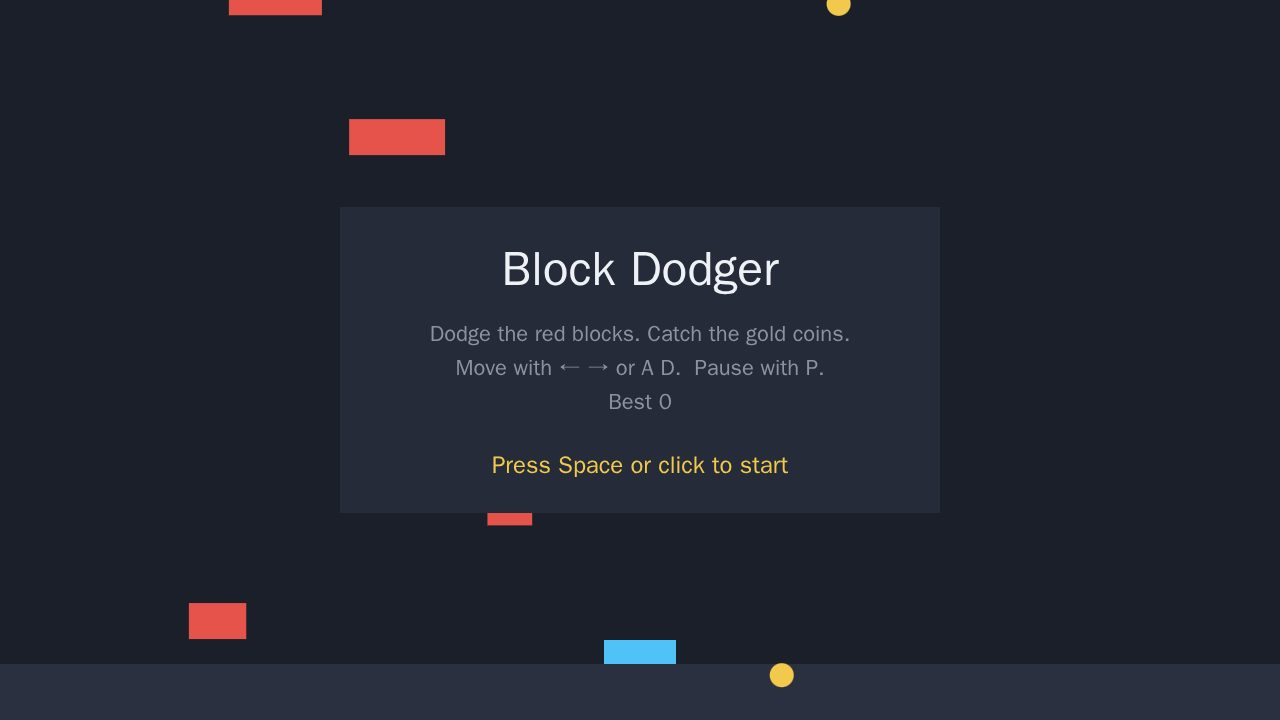
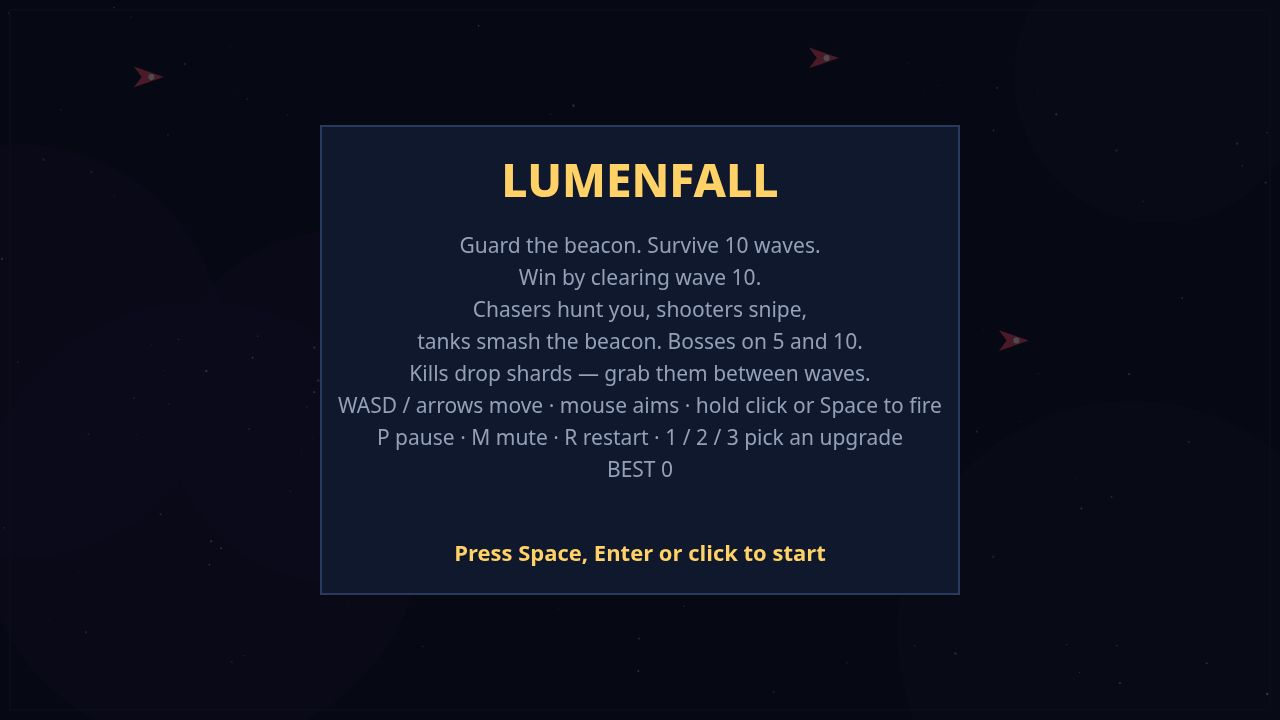
LUMENFALL: final screenshots (start/play/upgrade/end), fixed title overflow + end staging

diff --git a/game/src/render.js b/game/src/render.js
@@ -372,9 +372,11 @@ export function createRenderer(canvas) {
   }
 
   const TITLE_LINES = [
-    'Guard the beacon. Survive 10 waves. Win by clearing wave 10.',
-    'Chasers hunt you, shooters snipe, tanks smash the beacon.',
-    'Bosses on waves 5 and 10. Kills drop shards — spend waves well.',
+    'Guard the beacon. Survive 10 waves.',
+    'Win by clearing wave 10.',
+    'Chasers hunt you, shooters snipe,',
+    'tanks smash the beacon. Bosses on 5 and 10.',
+    'Kills drop shards — grab them between waves.',
     'WASD / arrows move · mouse aims · hold click or Space to fire',
     'P pause · M mute · R restart · 1 / 2 / 3 pick an upgrade',
     '',
@@ -428,7 +430,7 @@ export function createRenderer(canvas) {
     const best = ui.best || 0;
     if (screen === SCREEN_TITLE) {
       drawField(state, false);
-      TITLE_LINES[5] = titleBestLabel(best);
+      TITLE_LINES[7] = titleBestLabel(best);
       drawPanel('LUMENFALL', TITLE_LINES, 'Press Space, Enter or click to start', PALETTE.beacon);
       return;
     }

diff --git a/game/src/shots.js b/game/src/shots.js
@@ -74,7 +74,11 @@ export function stageShot(name, world, random) {
     return { screen: SCREEN_TITLE, best: 0, choices: null };
   }
   if (name === 'end') {
-    runSteps(world, LIMIT_SECONDS, idleInput);
+    // Play well first, then stop fighting: the end screen shows a real run
+    // (score, a cleared wave, kills) instead of a ship that never fired.
+    const fought = runSteps(world, 26, autopilot);
+    if (fought & EVENT_WAVE_CLEAR) world.nextWave();
+    if (world.state.phase === 'fighting') runSteps(world, LIMIT_SECONDS, idleInput);
     const over = world.state.phase === 'lost';
     return { screen: over ? SCREEN_OVER : SCREEN_PLAY, best: world.state.score, choices: null };
   }
